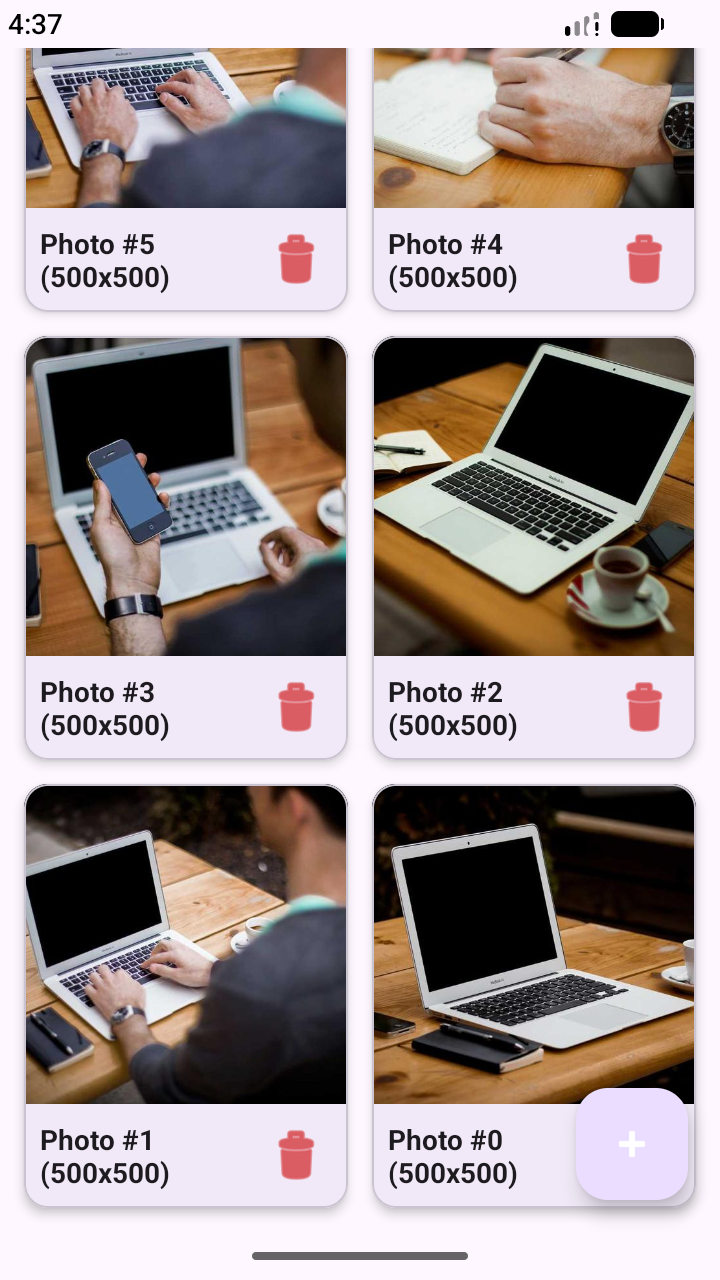
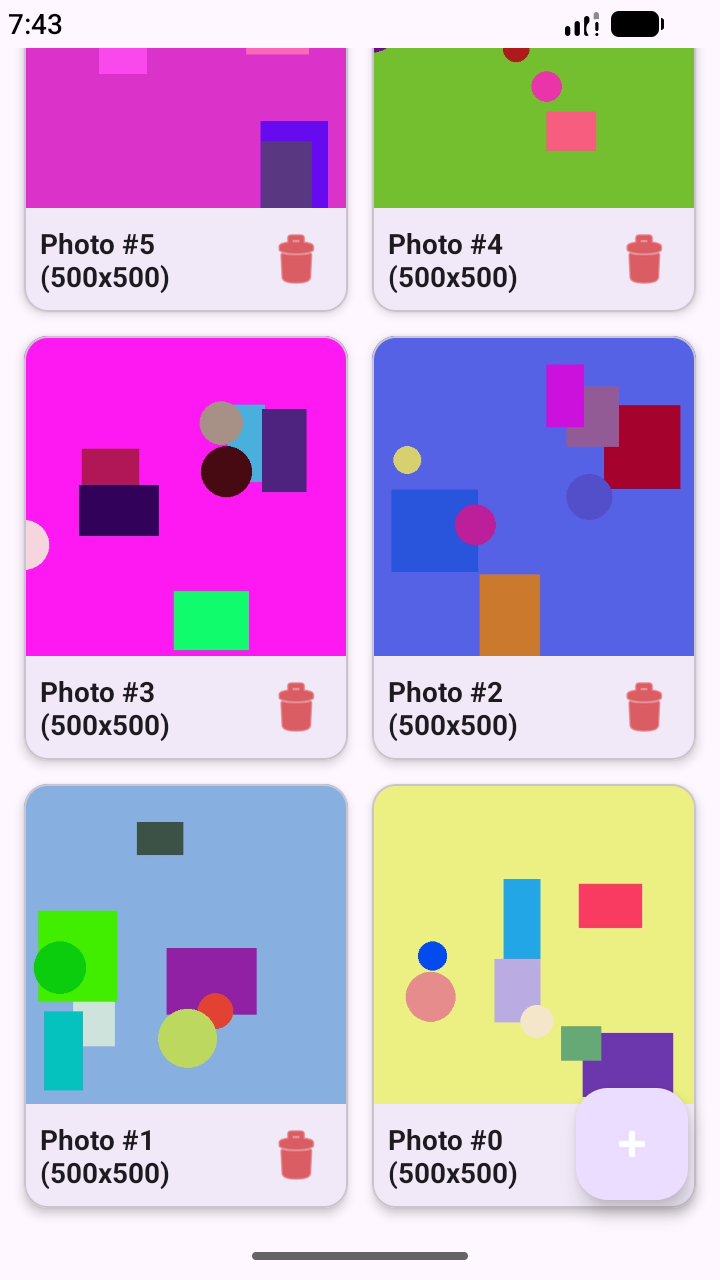
chore: update

diff --git a/app/src/androidTest/java/com/example/mobile_mid/PhotoBenchmarkTest.kt b/app/src/androidTest/java/com/example/mobile_mid/PhotoBenchmarkTest.kt
@@ -14,6 +14,7 @@ import androidx.test.platform.app.InstrumentationRegistry
 import androidx.test.uiautomator.UiDevice
 import coil.imageLoader
 import com.example.mobile_mid.data.AppDatabase
+import com.example.mobile_mid.data.NetworkModule
 import com.example.mobile_mid.data.PhotoEntity
 import com.example.mobile_mid.ui.PhotoAdapter
 import com.example.mobile_mid.util.PerformanceMonitor
@@ -98,7 +99,7 @@ class PhotoBenchmarkTest {
         runBlocking(Dispatchers.IO) {
             photoDao.deleteAllPhotos()
             for (i in 0 until count) {
-                val url = if (isError) "https://invalid-picsum-404.test/$i" else "https://picsum.photos/id/${i % 1084}/$size"
+                val url = if (isError) "https://invalid-picsum-404.test/$i" else "${NetworkModule.BASE_URL}/id/${i % 1084}/$size"
                 val title = if (isError) "Error #$i" else "Photo #${i % 1084} (${size}x$size)"
                 photoDao.insertPhoto(PhotoEntity(url = url, title = title))
             }
@@ -239,9 +240,10 @@ class PhotoBenchmarkTest {
     }
 
     private fun setNetworkState(enabled: Boolean) {
+        com.example.mobile_mid.data.NetworkModule.isOffline = !enabled
         val action = if (enabled) "enable" else "disable"
         uiDevice.executeShellCommand("svc wifi $action")
         uiDevice.executeShellCommand("svc data $action")
-        Thread.sleep(1200)
+        Thread.sleep(500)
     }
 }

diff --git a/app/src/main/java/com/example/mobile_mid/data/NetworkModule.kt b/app/src/main/java/com/example/mobile_mid/data/NetworkModule.kt
@@ -2,13 +2,25 @@ package com.example.mobile_mid.data
 
 import com.squareup.moshi.Moshi
 import com.squareup.moshi.kotlin.reflect.KotlinJsonAdapterFactory
+import okhttp3.Interceptor
 import okhttp3.OkHttpClient
 import okhttp3.logging.HttpLoggingInterceptor
 import retrofit2.Retrofit
 import retrofit2.converter.moshi.MoshiConverterFactory
+import java.io.IOException
 
 object NetworkModule {
-    private const val BASE_URL = "https://picsum.photos/"
+    const val BASE_URL = "http://localhost:8080/"
+
+    // Cờ kiểm soát trạng thái mạng cho mục đích kiểm thử (hỗ trợ cả adb reverse localhost)
+    var isOffline = false
+
+    private val offlineInterceptor = Interceptor { chain ->
+        if (isOffline) {
+            throw IOException("Network is offline (Simulated)")
+        }
+        chain.proceed(chain.request())
+    }
 
     private val moshi = Moshi.Builder()
         .add(KotlinJsonAdapterFactory())
@@ -19,6 +31,7 @@ object NetworkModule {
     }
 
     private val okHttpClient = OkHttpClient.Builder()
+        .addInterceptor(offlineInterceptor)
         .addInterceptor(loggingInterceptor)
         .build()
 

diff --git a/app/src/main/java/com/example/mobile_mid/ui/PhotoViewModel.kt b/app/src/main/java/com/example/mobile_mid/ui/PhotoViewModel.kt
@@ -18,7 +18,6 @@ import kotlinx.coroutines.launch
 import kotlinx.coroutines.withContext
 
 class PhotoViewModel(application: Application) : AndroidViewModel(application) {
-
     private val repository: PhotoRepository
     private val apiService = NetworkModule.picsumApiService
     val photosState: StateFlow<List<PhotoEntity>>
@@ -63,7 +62,7 @@ class PhotoViewModel(application: Application) : AndroidViewModel(application) {
                 val response = apiService.getPhotos(page = 2, limit = safeCount)
                 if (response.isSuccessful && response.body() != null) {
                     val photos = response.body()!!.map { picumPhoto ->
-                        val url = "https://picsum.photos/id/${picumPhoto.id}/$safeSize"
+                        val url = "${NetworkModule.BASE_URL}/id/${picumPhoto.id}/$safeSize"
                         val title = orDefault(picumPhoto.author, "Ảnh từ Picsum")
                         PhotoEntity(url = url, title = title)
                     }

diff --git a/docker/generate_images.py b/docker/generate_images.py
@@ -1,0 +1,113 @@
+#!/usr/bin/env python3
+"""
+Script tạo ảnh mẫu cho benchmark với cấu trúc thư mục:
+docker-images/
+  ├── 0/
+  │   ├── 100.jpg
+  │   ├── 500.jpg
+  │   ├── 1000.jpg
+  │   └── 2000.jpg
+  ├── 1/
+  │   ├── 100.jpg
+  │   ├── 500.jpg
+  │   ├── 1000.jpg
+  │   └── 2000.jpg
+  └── ...
+"""
+
+import os
+import random
+from PIL import Image, ImageDraw, ImageFont
+import argparse
+
+
+def generate_random_image(width, height, seed=None):
+    """Tạo ảnh ngẫu nhiên với seed cố định để đảm bảo ảnh giống nhau mỗi lần chạy"""
+    if seed is not None:
+        random.seed(seed)
+
+    # Tạo ảnh màu ngẫu nhiên
+    img = Image.new('RGB', (width, height), color=(
+        random.randint(0, 255),
+        random.randint(0, 255),
+        random.randint(0, 255)
+    ))
+
+    # Thêm một số hình dạng ngẫu nhiên
+    draw = ImageDraw.Draw(img)
+
+    # Vẽ hình chữ nhật
+    for _ in range(5):
+        x1 = random.randint(0, width - 100)
+        y1 = random.randint(0, height - 100)
+        x2 = x1 + random.randint(50, 150)
+        y2 = y1 + random.randint(50, 150)
+        draw.rectangle(
+            [x1, y1, x2, y2],
+            fill=(
+                random.randint(0, 255),
+                random.randint(0, 255),
+                random.randint(0, 255)
+            )
+        )
+
+    # Vẽ hình tròn
+    for _ in range(3):
+        x = random.randint(0, width - 100)
+        y = random.randint(0, height - 100)
+        radius = random.randint(20, 50)
+        draw.ellipse(
+            [x - radius, y - radius, x + radius, y + radius],
+            fill=(
+                random.randint(0, 255),
+                random.randint(0, 255),
+                random.randint(0, 255)
+            )
+        )
+
+    return img
+
+
+def generate_images(start_id, end_id, output_dir):
+    """Tạo ảnh cho tất cả các ID từ start_id đến end_id"""
+    sizes = [100, 500, 1000, 2000]
+
+    print(f"Đang tạo ảnh từ ID {start_id} đến {end_id}...")
+
+    for img_id in range(start_id, end_id + 1):
+        # Tạo thư mục cho ID này
+        id_dir = os.path.join(output_dir, str(img_id))
+        os.makedirs(id_dir, exist_ok=True)
+
+        # Tạo ảnh với seed cố định để đảm bảo ảnh giống nhau
+        for size in sizes:
+            img = generate_random_image(size, size, seed=img_id * 100 + size)
+            output_path = os.path.join(id_dir, f"{size}.jpg")
+            img.save(output_path, quality=95)
+            print(f"  Tạo: {output_path}")
+
+    print(f"\n✓ Hoàn thành! Đã tạo {end_id - start_id + 1} ảnh với {len(sizes)} kích thước mỗi ảnh.")
+
+
+def main():
+    parser = argparse.ArgumentParser(description='Tạo ảnh mẫu cho benchmark')
+    parser.add_argument('--start', type=int, default=0, help='ID ảnh bắt đầu (mặc định: 0)')
+    parser.add_argument('--end', type=int, default=999, help='ID ảnh kết thúc (mặc định: 999)')
+    parser.add_argument('--output', type=str, default='docker-images', help='Thư mục đầu ra (mặc định: docker-images)')
+
+    args = parser.parse_args()
+
+    if args.start > args.end:
+        print(f"Lỗi: start ({args.start}) không thể lớn hơn end ({args.end})")
+        return
+
+    total_images = args.end - args.start + 1
+    print(f"📊 Tổng số ảnh cần tạo: {total_images}")
+    print(f"📐 Kích thước ảnh: 100x100, 500x500, 1000x1000, 2000x2000")
+    print(f"📁 Thư mục đầu ra: {os.path.abspath(args.output)}\n")
+
+    generate_images(args.start, args.end, args.output)
+
+
+if __name__ == '__main__':
+    main()

diff --git a/README.md b/README.md
@@ -15,13 +15,25 @@ Dự án demo Android để benchmark hiệu năng việc tải và hiển thị
 ./gradlew assembleDebug
 ```
 
+## Thiết lập kết nối Localhost
+
+Để cho phép ứng dụng trên máy ảo/thiết bị Android truy cập vào các dịch vụ chạy trên máy tính host (`localhost`), sử dụng lệnh ADB Reverse:
+
+```bash
+adb reverse tcp:8080 tcp:8080
+```
+
 ## Chạy Benchmark Test
 
 ### Bước 1: Chuẩn bị môi trường
 
-1. **Khởi động image server** (xem hướng dẫn ở trên)
+1. **Khởi động image server**
 
-2. **Kết nối thiết bị** và kiểm tra:
+```bash
+docker compose up -d
+```
+
+1. **Kết nối thiết bị** và kiểm tra:
 
    ```bash
    adb devices
@@ -44,15 +56,3 @@ adb pull /sdcard/Download/benchmark_results.csv .
 adb pull /sdcard/Download/tc05_offline_list.png .
 adb pull /sdcard/Download/tc05_offline_detail.png .
 ```
-
-Mở file `benchmark_results.csv` để xem các chỉ số.
-
-## Lưu ý quan trọng
-
-1. **Image Server**: Phải chạy trước khi chạy test, nếu không test sẽ thất bại do không tải được ảnh.
-
-2. **ADB Reverse**: Lệnh `adb reverse tcp:8686 tcp:8686` rất quan trọng - cho phép thiết bị truy cập localhost của máy host.
-
-3. **Quyền lưu trữ**: Thiết bị cần đủ quyền để ghi file vào thư mục Download.
-
-4. **GC và bộ nhớ**: Test sử dụng `Runtime.gc()` để đo lường bộ nhớ, kết quả có thể thay đổi tùy vào trạng thái hệ thống.
